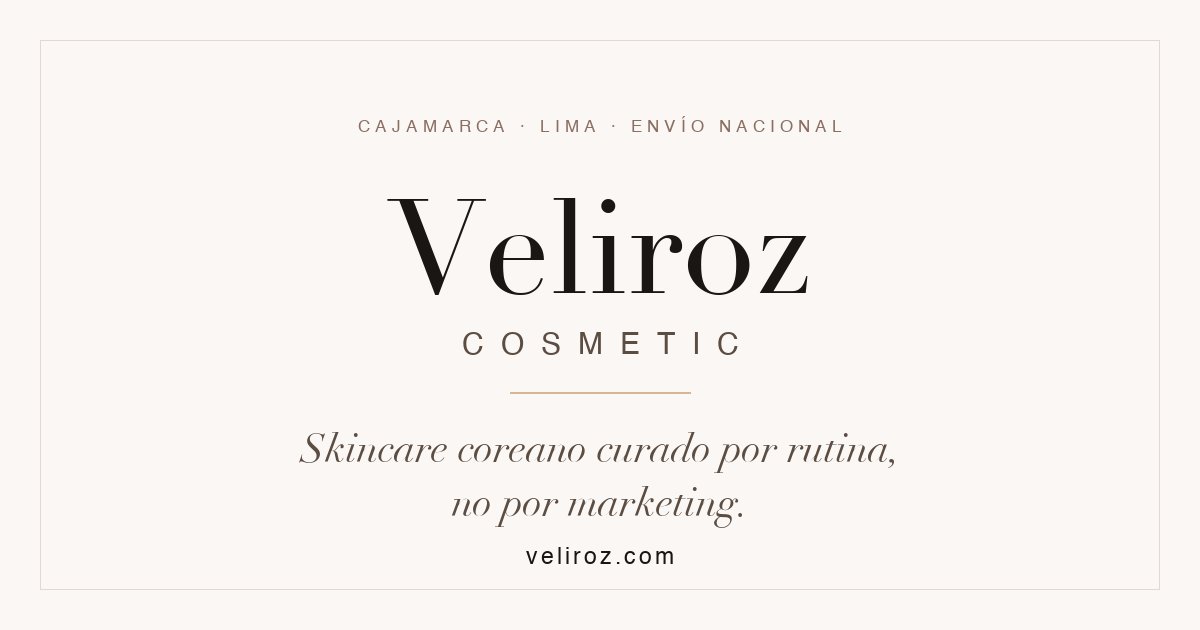
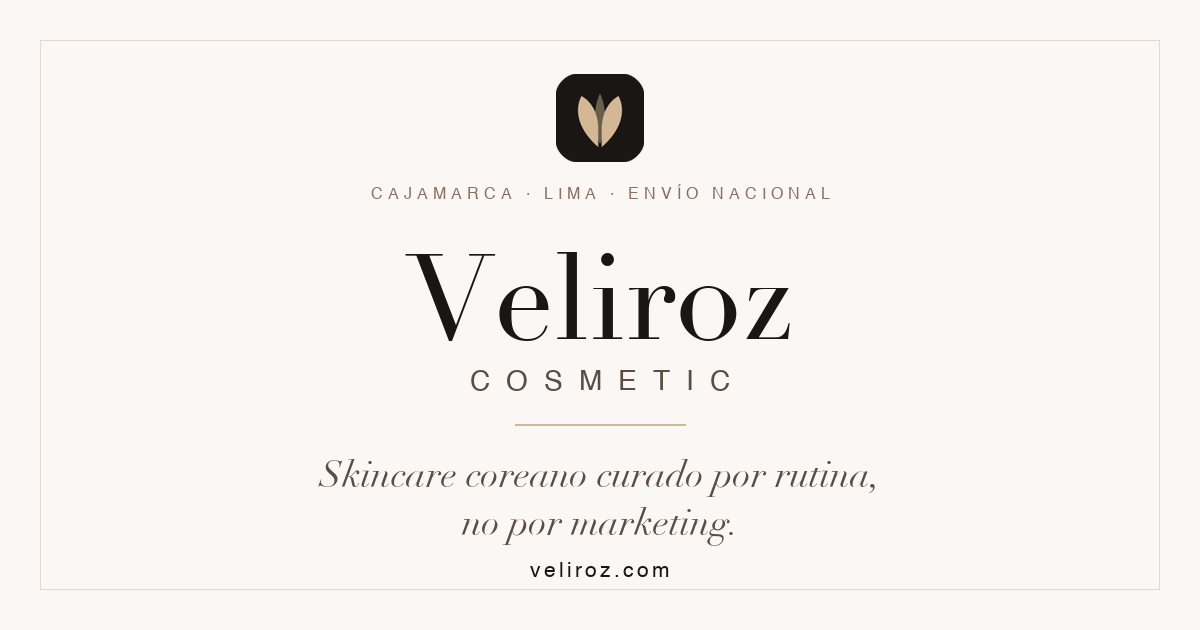
feat(marca): capullo de tres pétalos en vez del monograma V
La V no decía nada del rubro: era una letra en una caja. El símbolo nuevo
tiene dos lecturas a propósito — es un capullo de flor (belleza, y el hilo
con Veliroz Flores Eternas) y su silueta general dibuja una V.

El pétalo central va al 45% de opacidad: da profundidad sin sumar una forma
nueva, y a 16px se funde dejando los dos de adelante, que es exactamente lo
que tiene que leerse en chico.

Descartadas en el camino, todas por comportamiento a 16px: la rosa en
espiral —la más bonita en grande— se empasta en un borrón; las flores de
cinco y seis pétalos parecían margaritas de jardín de infantes, no
cosmética; las versiones sobre crema pierden contraste contra pestañas de
fondo claro; y la gota, que sí se leía bien, era menos distintiva.

Aplicado en los tres lugares donde vive la marca: favicon (.ico multi-tamaño
+ icon.svg), logo del header, y la imagen de Open Graph, que ahora lleva el
símbolo arriba del wordmark en vez de ser sólo tipografía.

diff --git a/src/components/CosmeticHeader.tsx b/src/components/CosmeticHeader.tsx
@@ -101,6 +101,9 @@ export function CosmeticHeader({ current }: Props = {}) {
                 header y la pestaña muestran letras distintas, la marca se
                 lee como dos. Va inline y no como <img> para que no
                 parpadee en la primera carga. */}
+            {/* Mismo capullo que el favicon (src/app/icon.svg): si el header
+                y la pestaña muestran símbolos distintos, la marca se lee como
+                dos. Inline y no <img> para que no parpadee al cargar. */}
             <svg
               className="w-8 h-8 shrink-0"
               viewBox="0 0 100 100"
@@ -109,7 +112,16 @@ export function CosmeticHeader({ current }: Props = {}) {
             >
               <rect width="100" height="100" rx="22" fill="var(--veliroz-ink, #1A1613)" />
               <path
-                d="M14 25 H40 V30 H34.5 L50 68 L64 30 H58.5 V25 H84 V30 H78 L57 82 H45 L22 30 H14 Z"
+                d="M50 80 C42 62 42 40 50 22 C58 40 58 62 50 80 Z"
+                fill="var(--veliroz-champagne, #D4B896)"
+                opacity=".45"
+              />
+              <path
+                d="M48 83 C26 64 20 42 29 25 C41 32 47 44 48 60 Z"
+                fill="var(--veliroz-champagne, #D4B896)"
+              />
+              <path
+                d="M52 83 C74 64 80 42 71 25 C59 32 53 44 52 60 Z"
                 fill="var(--veliroz-champagne, #D4B896)"
               />
             </svg>
